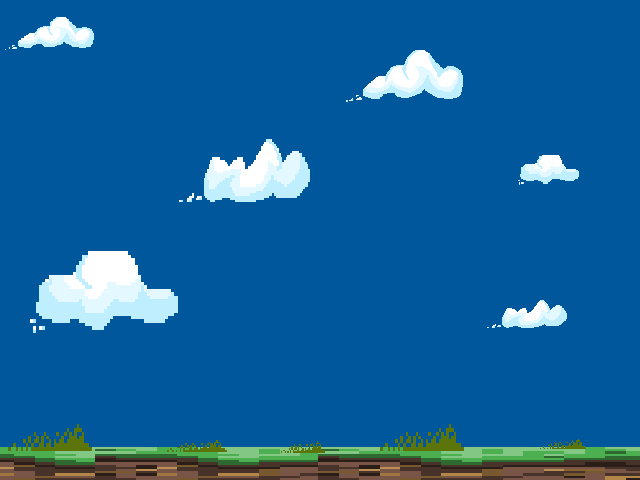
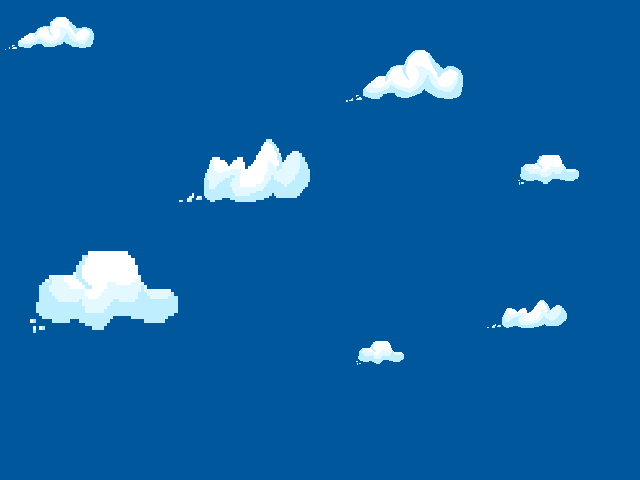
New explosion and parallax scrolling

Changed region(s): [[0.0, 0.875, 1.0, 1.0], [0.5625, 0.6875, 0.625, 0.7812]]

diff --git a/src/scenes/Menu.js b/src/scenes/Menu.js
@@ -19,6 +19,7 @@ class Menu extends Phaser.Scene {
         this.load.audio('sfx_menu', './assets/mixkit-ritual-synth-suspense-683.wav');
         this.load.image('title_menu', './assets/titlescreen.png');
         this.load.image('starfield', './assets/starfield.png');
+        this.load.image('grass', './assets/grass.png');
         this.load.image('title_words', './assets/title.png');
         this.load.image('UItemp', './assets/UIborder.png');
     }
@@ -30,6 +31,8 @@ class Menu extends Phaser.Scene {
             'starfield').setOrigin(0, 0);
         this.title1 = this.add.tileSprite(0, 0, game.config.width, game.config.height,
             'title_words').setOrigin(0, 0);
+        this.ground = this.add.tileSprite(0, 0, game.config.width, game.config.height,
+            'grass').setOrigin(0, 0);
         //this.sound.play('sfx_menu');
         // define keys
         keyLEFT = this.input.keyboard.addKey(Phaser.Input.Keyboard.KeyCodes.LEFT);
@@ -40,6 +43,7 @@ class Menu extends Phaser.Scene {
 
     update() {
         this.starfield.tilePositionX -= menuSpeed;
+        this.ground.tilePositionX -= grassSpeed;
         if (Phaser.Input.Keyboard.JustDown(keyUP)) {
             // easy mode
             game.settings = {

diff --git a/src/main.js b/src/main.js
@@ -9,10 +9,22 @@ let game =  new Phaser.Game(config);
 
 let borderUISize = game.config.height / 15;
 let borderPadding = borderUISize / 3;
-let starSpeed = 3;
+let starSpeed = 2;
 let menuSpeed = 1;
+let grassSpeed = 0.5;
+let HighScore = 0;
 let keyF, keyR, keyLEFT, keyRIGHT, keyUP, keyDOWN;
 
 /*
+/////LIST OF ROCKET PATROL MODS/////
+
+- Create a new spaceship type (new artwork, smaller, faster, worth more) (20)
+- Replace UI border w/new artwork (20)
+- Create new title screen (10)
+- Introduce copy-right free music (5)
+- Implement mouse control (20)
+- Create new artwork for all in-game assets (20)
+- 
+
 
 */

diff --git a/src/prefabs/Ship.js b/src/prefabs/Ship.js
@@ -3,7 +3,7 @@ class Ship extends Phaser.GameObjects.Sprite {
         super(scene, x, y, texture, frame);
         scene.add.existing(this);
         this.points = pointValue;
-        this.movementSpeed = 2;
+        this.movementSpeed = 1;
     }
     update() {
         this.x -= this.movementSpeed;
